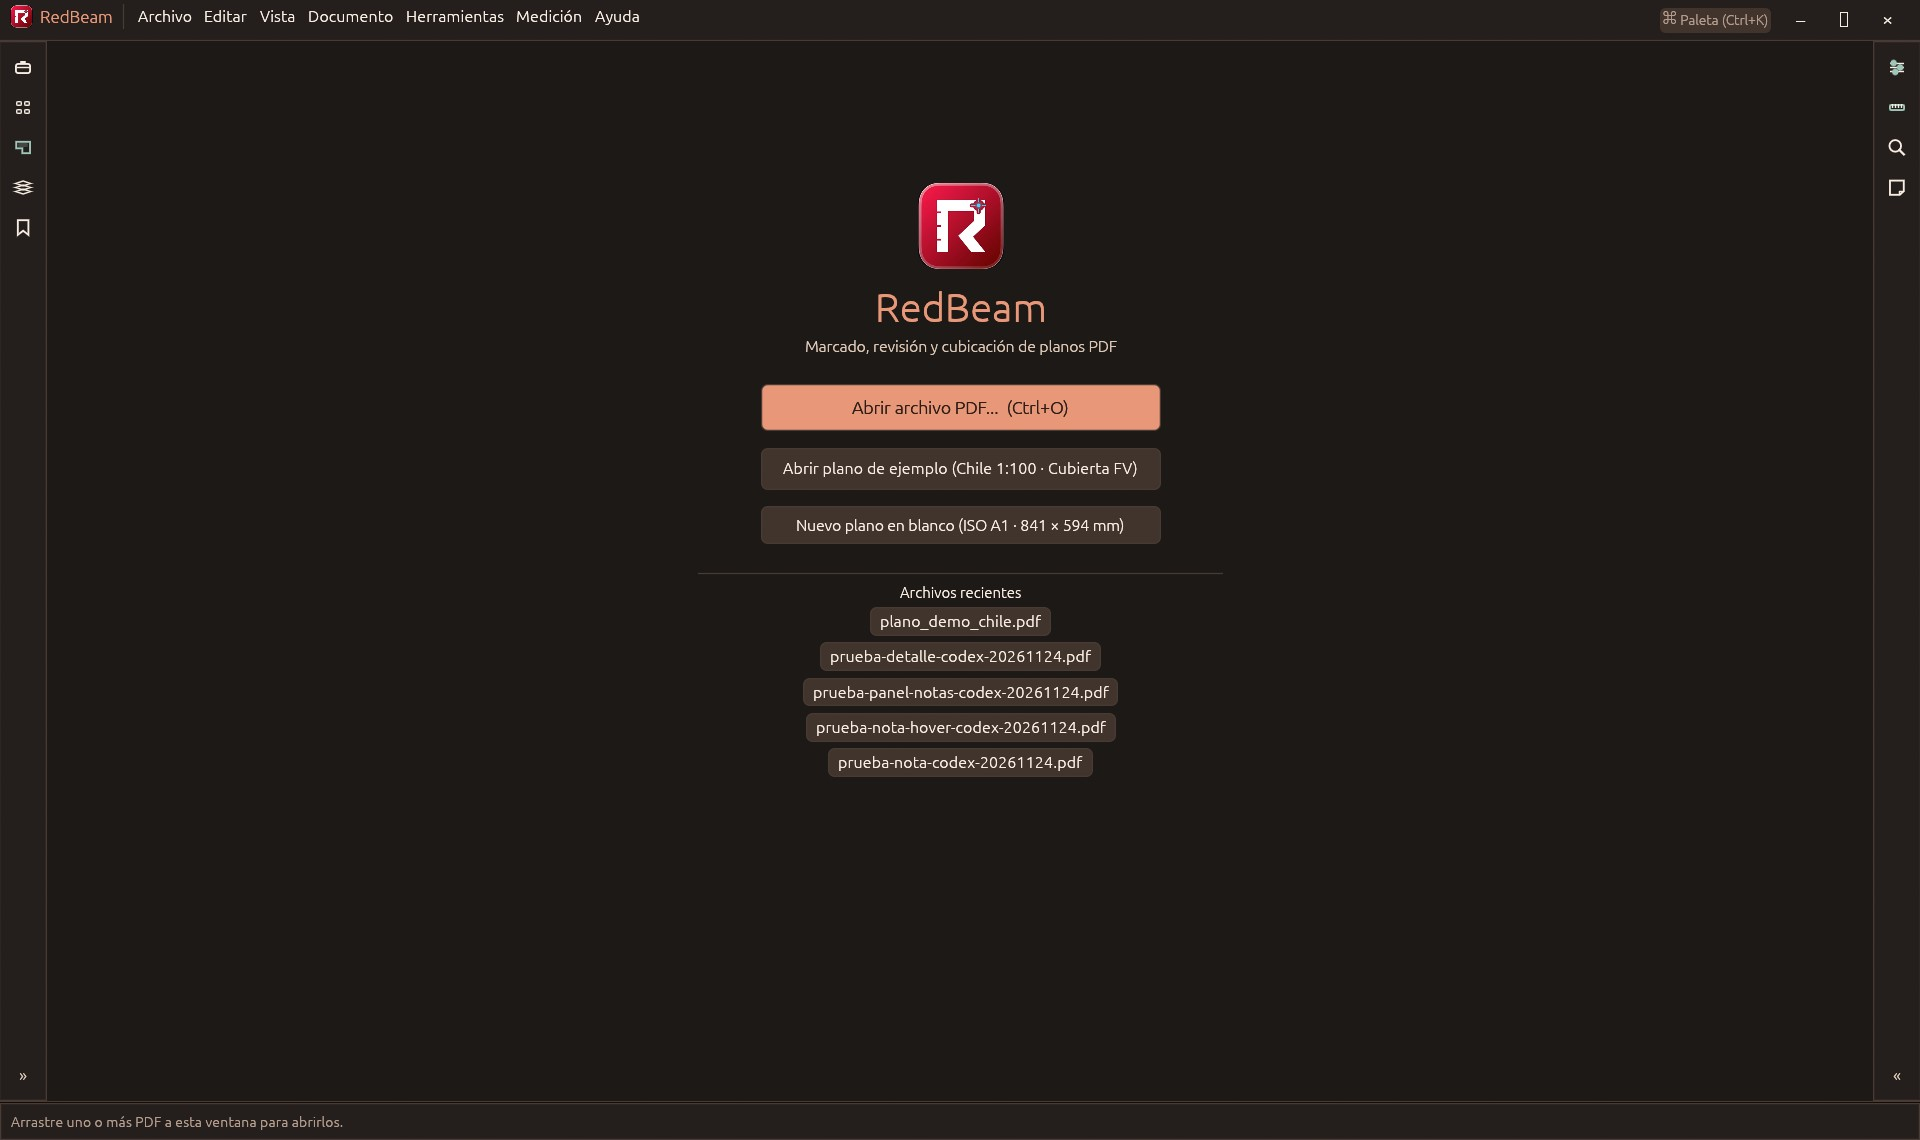
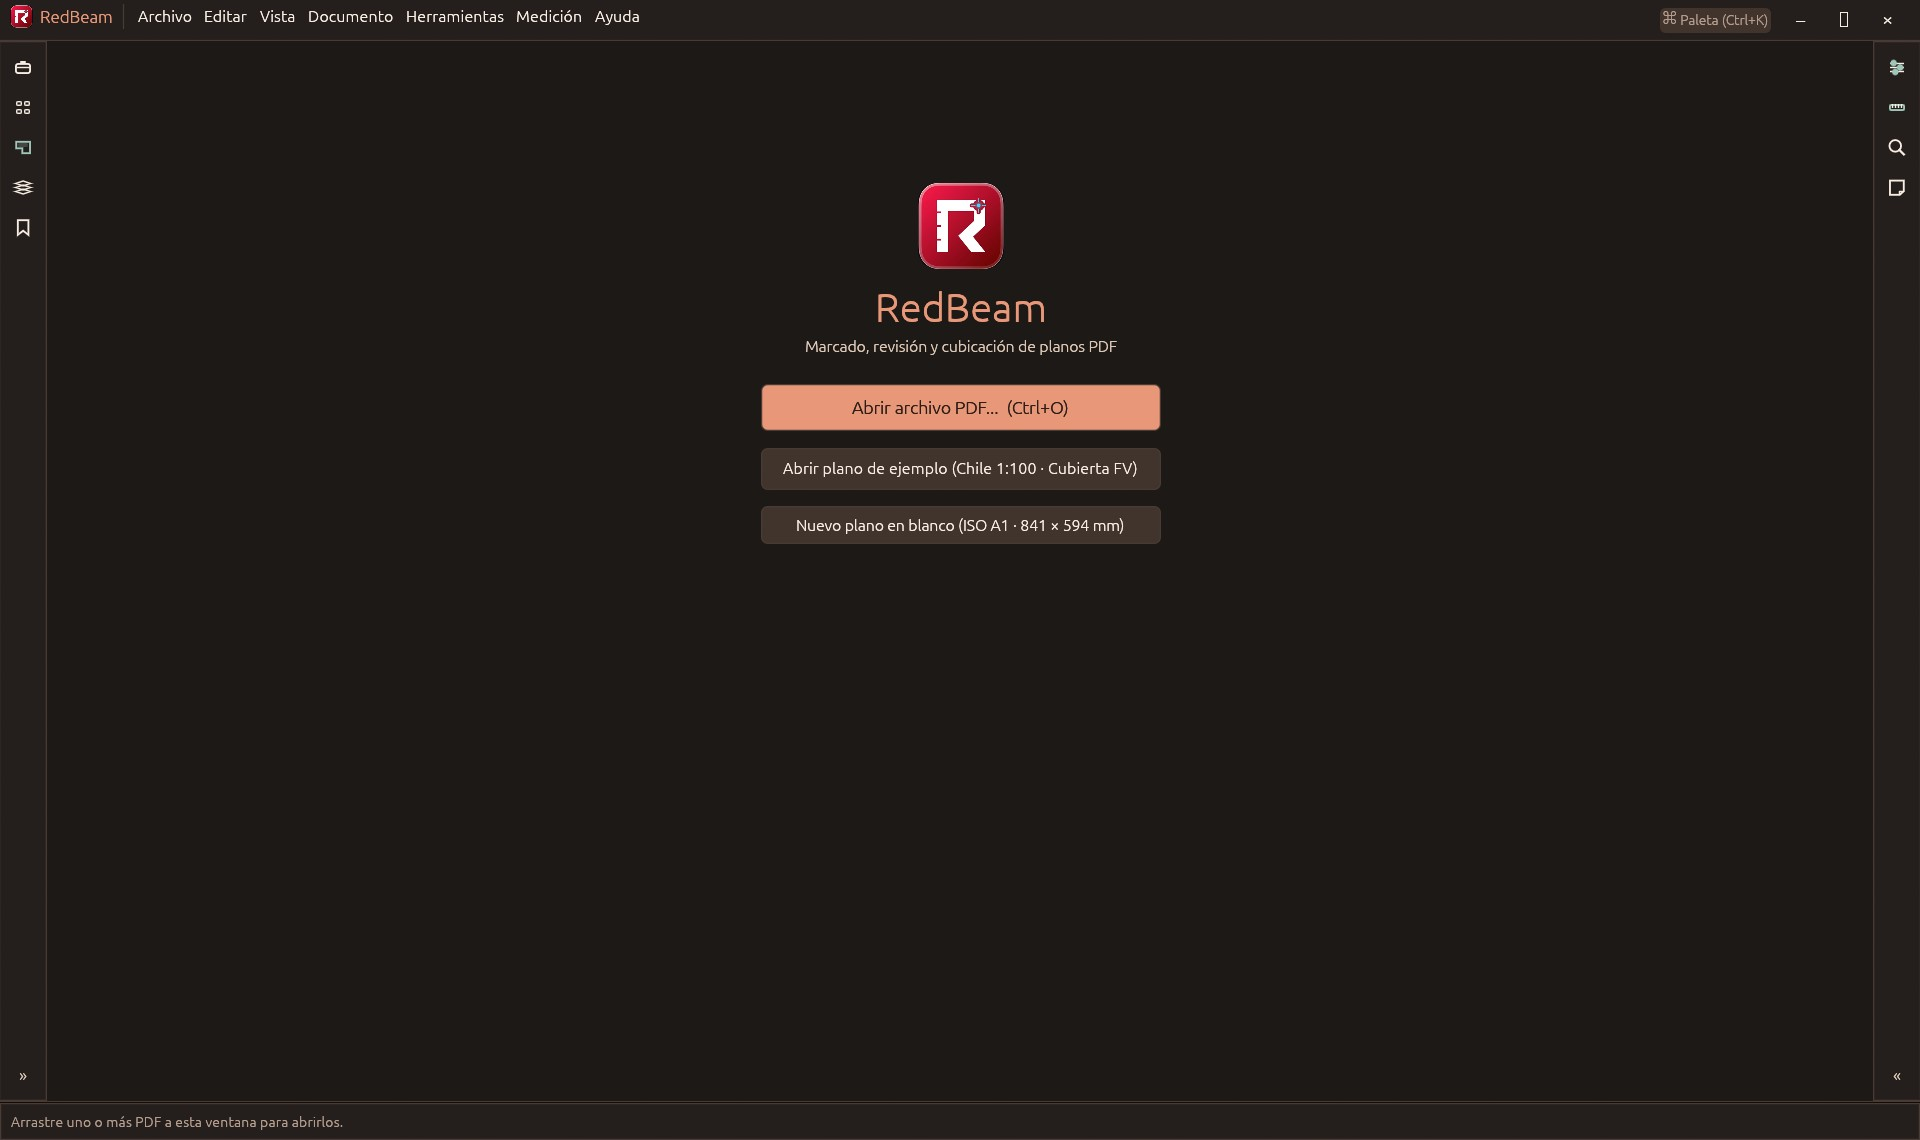
Use a clean RedBeam screenshot in the public readme

Changed region(s): [[0.4062, 0.4912, 0.5938, 0.7061]]

diff --git a/src/app.rs b/src/app.rs
@@ -2832,7 +2832,7 @@ impl RedBimApp {
                         actions.push(UiAction::NewBlankDocument);
                     }
 
-                    if !self.settings.recent_files.is_empty() {
+                    if self.screenshot_out.is_none() && !self.settings.recent_files.is_empty() {
                         ui.add_space(16.0);
                         ui.separator();
                         ui.label(RichText::new("Archivos recientes").strong().size(12.0));

diff --git a/docs/microsoft-store.md b/docs/microsoft-store.md
@@ -20,6 +20,8 @@ Usa la ruta completa en `-MakeAppx` si la herramienta queda fuera de `PATH`. El 
 
 4. Sube el `.msix` en Partner Center. Agrega la descripción y las capturas, completa el cuestionario de clasificación y envía la versión a certificación. [Proceso de publicación](https://learn.microsoft.com/windows/apps/publish/publish-your-app/create-app-submission)
 
+Para cambiar el nombre de una app publicada, reserva el nuevo nombre en **Administrar los nombres de las aplicaciones** del producto existente. Crea una actualización, sube el MSIX con el nuevo nombre y elige el nombre reservado en cada ficha de Store. Así se conserva el enlace de descarga y Microsoft Store entrega la actualización a quienes ya instalaron la app. [Edición de la ficha](https://learn.microsoft.com/windows/apps/publish/publish-your-app/msix/add-and-edit-store-listing-info)
+
 ## Ficha en español
 
 RedBeam es una aplicación de escritorio para revisar, anotar y cubicar planos PDF. Permite calibrar la escala, medir longitudes y áreas, contar elementos y exportar resultados. Incluye un plano de ejemplo para practicar y admite unidades métricas e imperiales.
